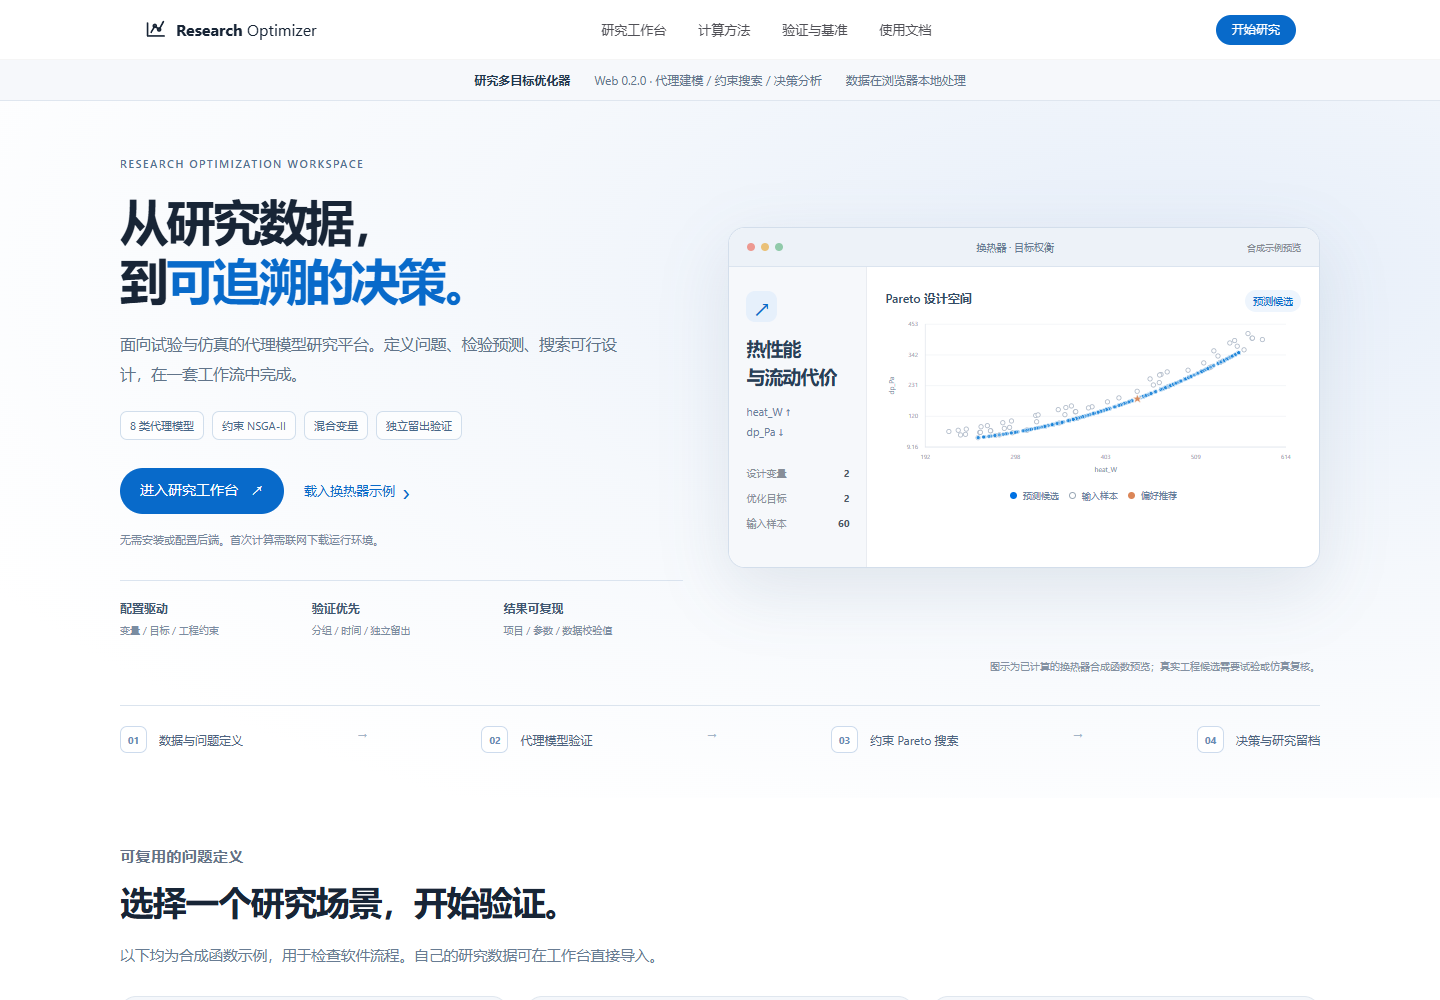
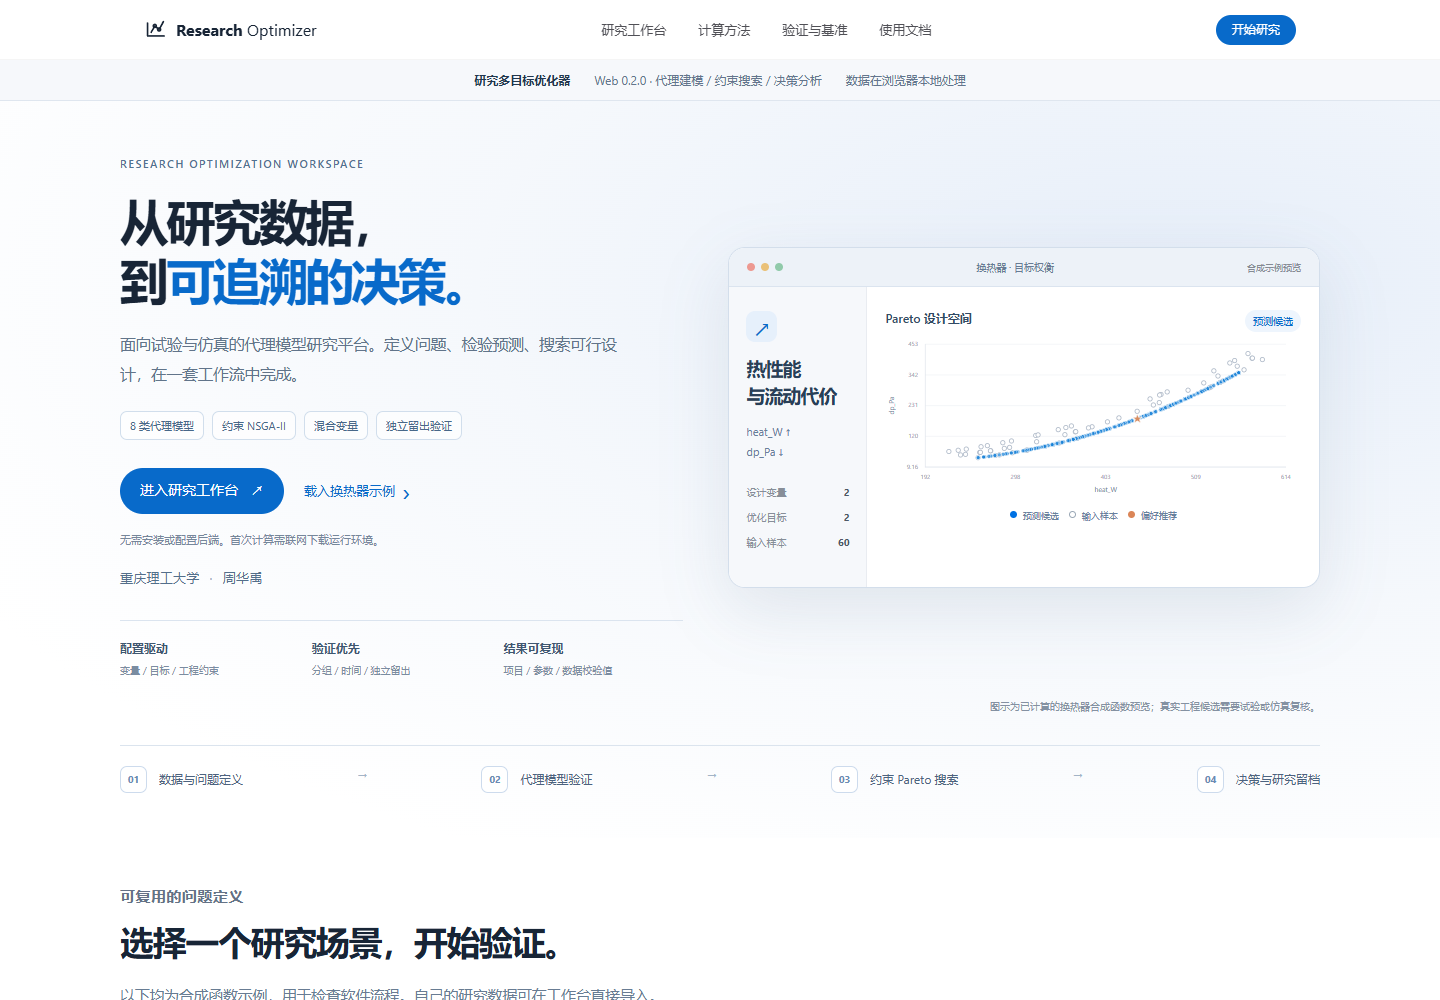
Add university and author credit to website and project documentation

diff --git a/web/index.html b/web/index.html
@@ -4,6 +4,7 @@
   <meta charset="utf-8">
   <meta name="viewport" content="width=device-width, initial-scale=1">
   <meta name="theme-color" content="#f5f5f7">
+  <meta name="author" content="周华禹 · 重庆理工大学">
   <meta name="description" content="在浏览器中完成代理模型验证、约束多目标优化与研究结果导出。数据留在你的设备，无需安装桌面软件。">
   <title>研究多目标优化器 · 数据建模、验证与优化</title>
   <link rel="icon" type="image/svg+xml" href="assets/icon.svg">
@@ -30,6 +31,7 @@
       <div class="capability-chips"><span>8 类代理模型</span><span>约束 NSGA-II</span><span>混合变量</span><span>独立留出验证</span></div>
       <div class="hero-actions"><a class="button" href="#workspace">进入研究工作台 <span aria-hidden="true">↗</span></a><button class="text-button" id="try-example">载入换热器示例 <span aria-hidden="true">›</span></button></div>
       <p class="microcopy">无需安装或配置后端。首次计算需联网下载运行环境。</p>
+      <p class="author-credit">重庆理工大学 <span aria-hidden="true">·</span> 周华禹</p>
       <div class="hero-specs"><div><b>配置驱动</b><span>变量 / 目标 / 工程约束</span></div><div><b>验证优先</b><span>分组 / 时间 / 独立留出</span></div><div><b>结果可复现</b><span>项目 / 参数 / 数据校验值</span></div></div>
       </div>
       <div class="hero-device" aria-label="换热器合成示例的真实计算结果预览">
@@ -111,7 +113,7 @@
     <section id="verification" class="verification section-wrap"><div class="section-heading"><p class="eyebrow">VERIFICATION & BENCHMARKS</p><h2>公开基准，支撑软件可行性。</h2><p>解析前沿、已知最优解与合成案例复算，分别检查搜索、建模和跨领域工作流。</p></div><div class="evidence-grid"><article><span>二维 ZDT1 · 10 个种子</span><strong>99.18<span>%</span></strong><h3>平均参考前沿 HV 比</h3><p>等函数调用预算的随机搜索作为基线；仅检查二维搜索内核。</p></article><article><span>连续解析问题 · 10 次运行</span><strong>8.36<span>×10⁻⁵</span></strong><h3>平均最优坐标误差</h3><p>从完整代理模型工作流找回训练网格外的已知最优点。</p></article><article><span>三个合成工程示例</span><strong>100<span>%</span></strong><h3>原函数约束可行率</h3><p>电池、换热器和结构候选逐一复算；不代表真实工程物理精度。</p></article></div><div class="benchmark-grid"><figure><img src="assets/benchmark-zdt1.png" width="2194" height="994" loading="lazy" alt="已公开的二维 ZDT1 解析前沿、多种子搜索与随机基线验证图"><figcaption><b>解析前沿与等预算基线</b><span>桌面计算内核 · 逐种子结果已公开</span></figcaption></figure><figure><img src="assets/benchmark-optima.png" width="2211" height="874" loading="lazy" alt="已公开的连续及混合变量问题最优解误差验证图"><figcaption><b>完整工作流的最优解误差</b><span>解析真值对照 · 连续 / 整数 / 离散约束</span></figcaption></figure></div><div class="evidence-links"><a class="button secondary compact" href="https://github.com/Zhuayu16/research-multiobjective-optimizer/blob/main/docs/verification.md" target="_blank" rel="noopener">基准方法与原始数据 ↗</a><a class="button secondary compact" href="https://github.com/Zhuayu16/research-multiobjective-optimizer/blob/main/docs/web-guide.md" target="_blank" rel="noopener">浏览器验证与复现文档 ↗</a><a class="text-button" href="https://github.com/Zhuayu16/research-multiobjective-optimizer/actions/workflows/pages.yml" target="_blank" rel="noopener">查看自动验证记录 ↗</a></div><p class="evidence-note">图表与三项数值来自已发布的桌面内核验证。网页版复用相同源码，另有真实浏览器工作流检查；实际运行依赖、验证划分和样本校验值写入每次导出配置。</p></section>
     <section id="guide" class="guide-section"><div class="section-wrap guide-grid"><div><p class="eyebrow">让研究回到研究本身。</p><h2>开始，很简单。</h2><p>无需注册，无需配置服务器。<br>打开网页，准备好你的数据即可。</p><a class="button" href="#workspace">开始你的研究</a></div><div class="guide-steps"><article><span>01</span><div><h3>带上你的数据。</h3><p>导入 CSV、Excel 或记录列表 JSON。也可以打开桌面版 .optproj 项目，或体验合成示例。</p></div></article><article><span>02</span><div><h3>定义你关心的目标。</h3><p>选择变量类型与边界，设置各目标方向、辅助响应、约束和验证方式。</p></div></article><article><span>03</span><div><h3>运行，比较，留存。</h3><p>查看 Pareto 权衡和模型误差，导出候选、完整工作簿、图表与可恢复项目。</p></div></article><details><summary>第一次计算、设备与数据说明</summary><p>首次运行会从 Pyodide CDN 与 PyPI 下载计算环境，需要网络连接；计算与文件处理发生在浏览器内存中。推荐使用最新桌面版 Chrome、Edge、Firefox 或 Safari。关闭页面会结束计算，请及时下载项目。浏览器中树模型使用单线程，Auto 选型可能耗时较长。网站不自动调用 Fluent，也不导入二进制 .dat.h5 文件。</p></details></div></div></section>
   </main>
-  <footer><div class="section-wrap"><div class="footer-top"><span>研究多目标优化器 · Web</span><a href="https://github.com/Zhuayu16/research-multiobjective-optimizer" target="_blank" rel="noopener">源码与桌面版 ↗</a></div><p>可配置研究问题 · 可复现计算 · 浏览器本地运行</p><p class="footer-small">v0.2.0 · 本网站采用静态托管。示例来自合成函数，不能替代真实试验或仿真。</p></div></footer>
+  <footer><div class="section-wrap"><div class="footer-top"><span>研究多目标优化器 · Web</span><a href="https://github.com/Zhuayu16/research-multiobjective-optimizer" target="_blank" rel="noopener">源码与桌面版 ↗</a></div><p>重庆理工大学 · 周华禹</p><p>可配置研究问题 · 可复现计算 · 浏览器本地运行</p><p class="footer-small">v0.2.0 · 本网站采用静态托管。示例来自合成函数，不能替代真实试验或仿真。</p></div></footer>
   <div id="toast" role="alert" hidden></div><div id="chart-tooltip" role="tooltip" hidden></div>
   <noscript><p class="noscript">请启用 JavaScript 以使用浏览器研究工作台。</p></noscript>
 </body>

diff --git a/web/professional.css b/web/professional.css
@@ -1,4 +1,5 @@
 /* A research workspace with readable controls and evidence-rich analysis. */
+.author-credit{display:flex;align-items:center;gap:10px;margin:16px 0 0;color:#536f8b;font-size:13px;line-height:1.8;letter-spacing:.02em}.author-credit span{color:#9aacc0}
 .analysis-card svg{max-height:310px}.analysis-legend{display:flex;flex-wrap:wrap;gap:10px 17px;margin:13px 0 20px;font-size:10px;color:#7c90a8;line-height:1.8}.analysis-legend>span{display:flex;align-items:center;gap:6px}
 :root{--ink:#182536;--muted:#647286;--blue:#086aca;--line:#dfe6ef;--surface:#f3f6fa}
 .global-nav{height:60px;background:rgba(255,255,255,.92)}

diff --git a/README.md b/README.md
@@ -7,6 +7,8 @@
 **从工程数据到可追溯的优化方案**<br>
 可配置问题定义 · 代理模型验证 · 约束优化 · 决策与图表导出
 
+**重庆理工大学 · 周华禹**
+
 ![Version](https://img.shields.io/badge/version-0.2.0-2563eb)
 ![Python](https://img.shields.io/badge/Python-3.10%2B-3776AB?logo=python&logoColor=white)
 ![Desktop](https://img.shields.io/badge/desktop-PyQt5-41CD52)

diff --git a/README_EN.md b/README_EN.md
@@ -6,6 +6,8 @@
 
 **From engineering data to traceable design decisions**
 
+**Author: 周华禹 · Chongqing University of Technology (重庆理工大学)**
+
 ![Version](https://img.shields.io/badge/version-0.2.0-2563eb)
 ![Python](https://img.shields.io/badge/Python-3.10%2B-3776AB?logo=python&logoColor=white)
 ![Desktop](https://img.shields.io/badge/desktop-PyQt5-41CD52)
